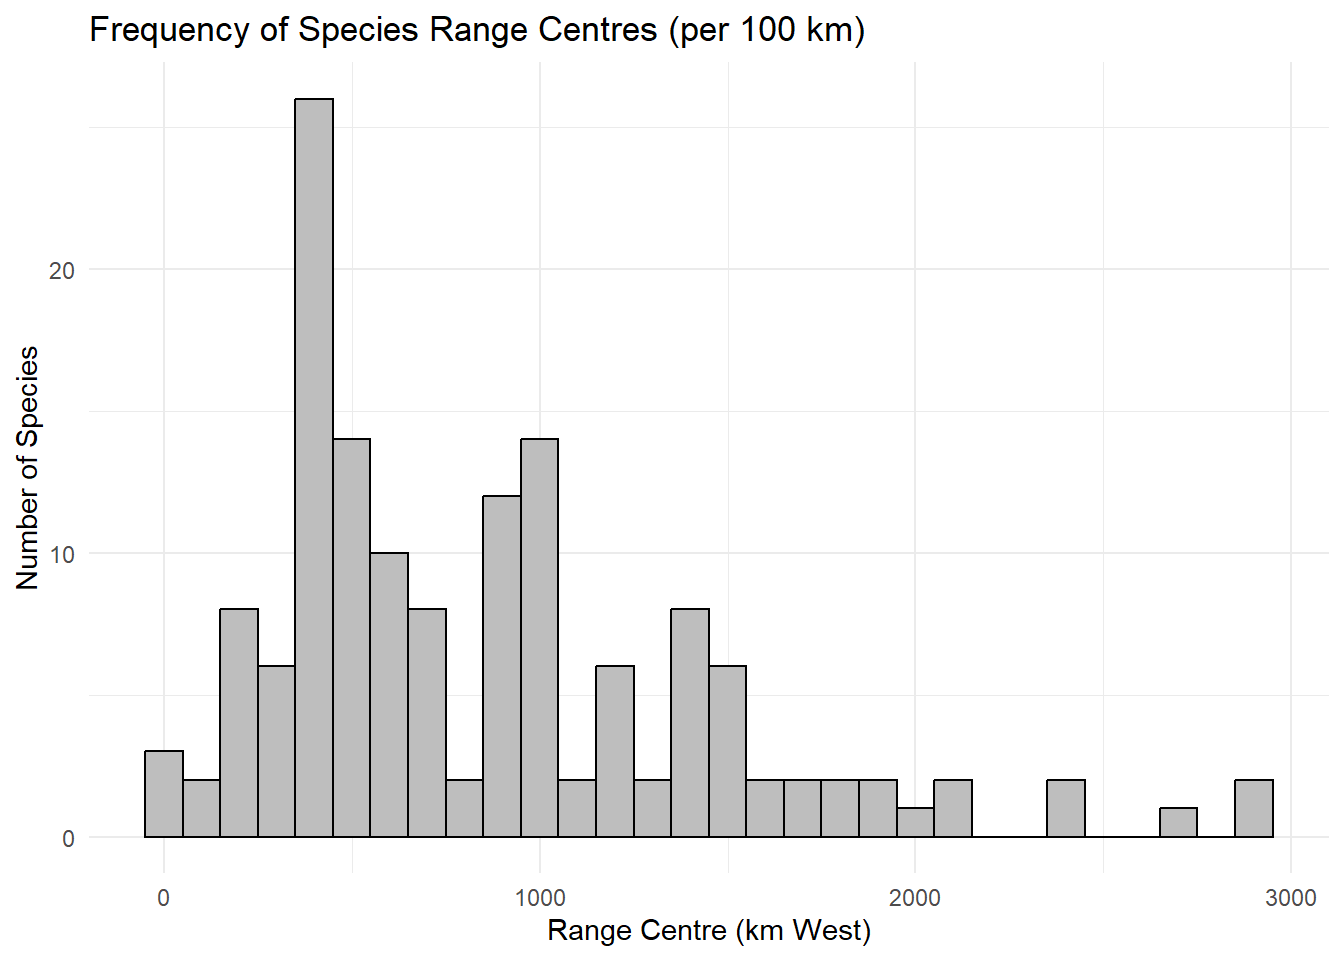
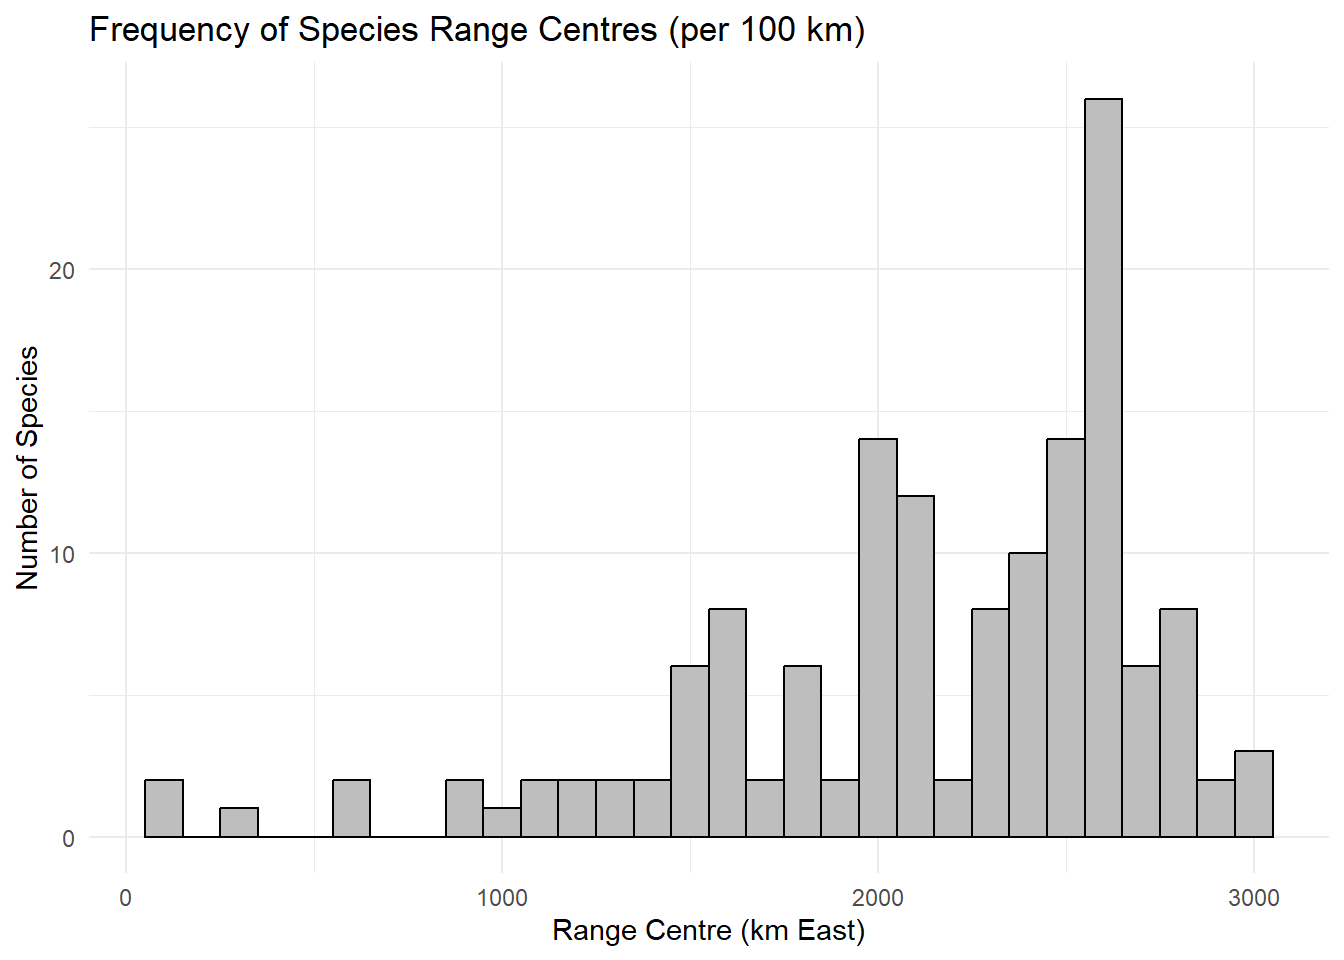
Added to the range centre section - notes still look ass.

Changed region(s): [[0.0938, 0.0938, 0.9688, 0.875], [0.3438, 0.9062, 0.6875, 1.0], [0.9062, 0.9062, 0.9688, 0.9688]]

diff --git a/code/marine-spatial-planning.html b/code/marine-spatial-planning.html
@@ -551,7 +551,7 @@ Loading required package: lattice</code></pre>
 <pre><code>[1] 66.89655</code></pre>
 </div>
 </div>
-<p>However, this is way less species than our previous methods.</p>
+<p>However, this is way less species than our previous methods. Class got ~74%.</p>
 </section>
 <section id="range-centre-method" class="level2">
 <h2 class="anchored" data-anchor-id="range-centre-method">Range Centre Method</h2>
@@ -561,8 +561,8 @@ Loading required package: lattice</code></pre>
 <div class="sourceCode cell-code" id="cb52"><pre class="sourceCode r code-with-copy"><code class="sourceCode r"><span id="cb52-1"><a href="#cb52-1" aria-hidden="true" tabindex="-1"></a><span class="co"># species abundance data</span></span>
 <span id="cb52-2"><a href="#cb52-2" aria-hidden="true" tabindex="-1"></a>spp <span class="ot">&lt;-</span> EF[, <span class="dv">4</span><span class="sc">:</span><span class="dv">148</span>]</span>
 <span id="cb52-3"><a href="#cb52-3" aria-hidden="true" tabindex="-1"></a></span>
-<span id="cb52-4"><a href="#cb52-4" aria-hidden="true" tabindex="-1"></a><span class="co"># distance from western boundary</span></span>
-<span id="cb52-5"><a href="#cb52-5" aria-hidden="true" tabindex="-1"></a>coords <span class="ot">&lt;-</span> EF<span class="sc">$</span>kmWest          </span></code><button title="Copy to Clipboard" class="code-copy-button"><i class="bi"></i></button></pre></div>
+<span id="cb52-4"><a href="#cb52-4" aria-hidden="true" tabindex="-1"></a><span class="co"># distance from eastern boundary</span></span>
+<span id="cb52-5"><a href="#cb52-5" aria-hidden="true" tabindex="-1"></a>coords <span class="ot">&lt;-</span> EF<span class="sc">$</span>kmEast          </span></code><button title="Copy to Clipboard" class="code-copy-button"><i class="bi"></i></button></pre></div>
 </div>
 <p>Now we need to calculate the range for each species. We can create a function to do this.</p>
 <div class="cell">
@@ -573,8 +573,8 @@ Loading required package: lattice</code></pre>
 <span id="cb53-5"><a href="#cb53-5" aria-hidden="true" tabindex="-1"></a>    <span class="co"># species not present anywhere</span></span>
 <span id="cb53-6"><a href="#cb53-6" aria-hidden="true" tabindex="-1"></a>    <span class="fu">return</span>(<span class="fu">c</span>(<span class="at">west_limit =</span> <span class="cn">NA</span>, <span class="at">east_limit =</span> <span class="cn">NA</span>, <span class="at">center =</span> <span class="cn">NA</span>))</span>
 <span id="cb53-7"><a href="#cb53-7" aria-hidden="true" tabindex="-1"></a>  } <span class="cf">else</span> {</span>
-<span id="cb53-8"><a href="#cb53-8" aria-hidden="true" tabindex="-1"></a>    west <span class="ot">&lt;-</span> <span class="fu">min</span>(present_coords)                    <span class="co"># furthest west point</span></span>
-<span id="cb53-9"><a href="#cb53-9" aria-hidden="true" tabindex="-1"></a>    east <span class="ot">&lt;-</span> <span class="fu">max</span>(present_coords)                    <span class="co"># furthest east point</span></span>
+<span id="cb53-8"><a href="#cb53-8" aria-hidden="true" tabindex="-1"></a>    east <span class="ot">&lt;-</span> <span class="fu">min</span>(present_coords)                    <span class="co"># furthest east point</span></span>
+<span id="cb53-9"><a href="#cb53-9" aria-hidden="true" tabindex="-1"></a>    west <span class="ot">&lt;-</span> <span class="fu">max</span>(present_coords)                    <span class="co"># furthest west point</span></span>
 <span id="cb53-10"><a href="#cb53-10" aria-hidden="true" tabindex="-1"></a>    centre <span class="ot">&lt;-</span> <span class="fu">mean</span>(<span class="fu">c</span>(west, east))                  <span class="co"># center of range</span></span>
 <span id="cb53-11"><a href="#cb53-11" aria-hidden="true" tabindex="-1"></a>    </span>
 <span id="cb53-12"><a href="#cb53-12" aria-hidden="true" tabindex="-1"></a>    <span class="fu">return</span>(<span class="fu">c</span>(<span class="at">west_limit =</span> west, <span class="at">east_limit =</span> east, <span class="at">centre =</span> centre))</span>
@@ -596,19 +596,19 @@ Loading required package: lattice</code></pre>
 <span id="cb54-8"><a href="#cb54-8" aria-hidden="true" tabindex="-1"></a><span class="fu">head</span>(spp_range_list)</span></code><button title="Copy to Clipboard" class="code-copy-button"><i class="bi"></i></button></pre></div>
 <div class="cell-output cell-output-stdout">
 <pre><code>                          Species west_limit east_limit centre
-Spot.damsel           Spot.damsel          3          3    3.0
-Estuarine.bream   Estuarine.bream        179       1034  606.5
-Bald.glassy           Bald.glassy        179       1139  659.0
-Slender.glassy     Slender.glassy          3        745  374.0
-Longspine.glassy Longspine.glassy          3        881  442.0
-Evileye.blaasop   Evileye.blaasop        267       2031 1149.0</code></pre>
+Spot.damsel           Spot.damsel       2997       2997 2997.0
+Estuarine.bream   Estuarine.bream       2821       1966 2393.5
+Bald.glassy           Bald.glassy       2821       1861 2341.0
+Slender.glassy     Slender.glassy       2997       2255 2626.0
+Longspine.glassy Longspine.glassy       2997       2119 2558.0
+Evileye.blaasop   Evileye.blaasop       2733        969 1851.0</code></pre>
 </div>
 </div>
 <p>Now we can plot a histogram with the frequency of range centres per 100 km.</p>
 <div class="cell">
 <div class="sourceCode cell-code" id="cb56"><pre class="sourceCode r code-with-copy"><code class="sourceCode r"><span id="cb56-1"><a href="#cb56-1" aria-hidden="true" tabindex="-1"></a><span class="fu">ggplot</span>(spp_range_list, <span class="fu">aes</span>(<span class="at">x =</span> centre)) <span class="sc">+</span></span>
 <span id="cb56-2"><a href="#cb56-2" aria-hidden="true" tabindex="-1"></a>  <span class="fu">geom_histogram</span>(<span class="at">binwidth =</span> <span class="dv">100</span>, <span class="at">fill =</span> <span class="st">"grey"</span>, <span class="at">color =</span> <span class="st">"black"</span>) <span class="sc">+</span></span>
-<span id="cb56-3"><a href="#cb56-3" aria-hidden="true" tabindex="-1"></a>  <span class="fu">xlab</span>(<span class="st">"Range Centre (km West)"</span>) <span class="sc">+</span></span>
+<span id="cb56-3"><a href="#cb56-3" aria-hidden="true" tabindex="-1"></a>  <span class="fu">xlab</span>(<span class="st">"Range Centre (km East)"</span>) <span class="sc">+</span></span>
 <span id="cb56-4"><a href="#cb56-4" aria-hidden="true" tabindex="-1"></a>  <span class="fu">ylab</span>(<span class="st">"Number of Species"</span>) <span class="sc">+</span></span>
 <span id="cb56-5"><a href="#cb56-5" aria-hidden="true" tabindex="-1"></a>  <span class="fu">ggtitle</span>(<span class="st">"Frequency of Species Range Centres (per 100 km)"</span>) <span class="sc">+</span></span>
 <span id="cb56-6"><a href="#cb56-6" aria-hidden="true" tabindex="-1"></a>  <span class="fu">theme_minimal</span>()</span></code><button title="Copy to Clipboard" class="code-copy-button"><i class="bi"></i></button></pre></div>
@@ -618,6 +618,111 @@ Evileye.blaasop   Evileye.blaasop        267       2031 1149.0</code></pre>
 <p><img src="marine-spatial-planning_files/figure-html/unnamed-chunk-38-1.png" class="img-fluid figure-img" width="672"></p>
 </figure>
 </div>
+</div>
+</div>
+<p>Now we need to find a way to extract the frequencies from the histogram and add that data to the <code>EF</code> data frame.</p>
+<p>We can start by scoring them.</p>
+<div class="cell">
+<div class="sourceCode cell-code" id="cb57"><pre class="sourceCode r code-with-copy"><code class="sourceCode r"><span id="cb57-1"><a href="#cb57-1" aria-hidden="true" tabindex="-1"></a>EF<span class="sc">$</span>block <span class="ot">&lt;-</span> <span class="fu">ceiling</span>(EF<span class="sc">$</span>kmEast<span class="sc">/</span><span class="dv">100</span>)</span>
+<span id="cb57-2"><a href="#cb57-2" aria-hidden="true" tabindex="-1"></a></span>
+<span id="cb57-3"><a href="#cb57-3" aria-hidden="true" tabindex="-1"></a></span>
+<span id="cb57-4"><a href="#cb57-4" aria-hidden="true" tabindex="-1"></a>EF<span class="sc">$</span>RC_list <span class="ot">&lt;-</span> <span class="dv">1</span></span>
+<span id="cb57-5"><a href="#cb57-5" aria-hidden="true" tabindex="-1"></a></span>
+<span id="cb57-6"><a href="#cb57-6" aria-hidden="true" tabindex="-1"></a><span class="co"># order by kmEast</span></span>
+<span id="cb57-7"><a href="#cb57-7" aria-hidden="true" tabindex="-1"></a>EF <span class="ot">&lt;-</span> EF[<span class="fu">order</span>(EF<span class="sc">$</span>kmEast),]</span></code><button title="Copy to Clipboard" class="code-copy-button"><i class="bi"></i></button></pre></div>
+</div>
+<p>Let’s check the top 20 estuaries.</p>
+<div class="cell">
+<div class="sourceCode cell-code" id="cb58"><pre class="sourceCode r code-with-copy"><code class="sourceCode r"><span id="cb58-1"><a href="#cb58-1" aria-hidden="true" tabindex="-1"></a>interval_table <span class="ot">&lt;-</span> <span class="fu">table</span>(<span class="fu">cut</span>(spp_range_list<span class="sc">$</span>centre,<span class="fu">seq</span>(<span class="dv">0</span>,<span class="dv">3000</span>,<span class="dv">100</span>)))</span>
+<span id="cb58-2"><a href="#cb58-2" aria-hidden="true" tabindex="-1"></a><span class="fu">print</span>(<span class="fu">order</span>(interval_table, <span class="at">decreasing =</span> <span class="cn">TRUE</span>))</span></code><button title="Copy to Clipboard" class="code-copy-button"><i class="bi"></i></button></pre></div>
+<div class="cell-output cell-output-stdout">
+<pre><code> [1] 26 25 27 20 21 16 24 22 29 18 15 17 19 23 28 30  1  7 10 12 13 14  3  9 11
+[26]  2  4  5  6  8</code></pre>
+</div>
+</div>
+<p>Here we can see that the lowest frequencies are 2, 3, 4, 5, 6, 8, 9, 11, 13 and 14</p>
+<p>Let’s remove the estuaries we don’t want.</p>
+<div class="cell">
+<div class="sourceCode cell-code" id="cb60"><pre class="sourceCode r code-with-copy"><code class="sourceCode r"><span id="cb60-1"><a href="#cb60-1" aria-hidden="true" tabindex="-1"></a><span class="co"># define blocks to score as 0</span></span>
+<span id="cb60-2"><a href="#cb60-2" aria-hidden="true" tabindex="-1"></a>zero_blocks <span class="ot">&lt;-</span> <span class="fu">c</span>(<span class="dv">13</span>, <span class="dv">14</span>, <span class="dv">3</span>, <span class="dv">9</span>, <span class="dv">11</span>, <span class="dv">2</span>, <span class="dv">4</span>, <span class="dv">5</span>, <span class="dv">6</span>, <span class="dv">8</span>)</span>
+<span id="cb60-3"><a href="#cb60-3" aria-hidden="true" tabindex="-1"></a></span>
+<span id="cb60-4"><a href="#cb60-4" aria-hidden="true" tabindex="-1"></a><span class="co"># score the defined blocks as 0</span></span>
+<span id="cb60-5"><a href="#cb60-5" aria-hidden="true" tabindex="-1"></a><span class="cf">for</span> (i <span class="cf">in</span> <span class="dv">1</span><span class="sc">:</span><span class="fu">nrow</span>(EF)) {</span>
+<span id="cb60-6"><a href="#cb60-6" aria-hidden="true" tabindex="-1"></a>  <span class="cf">if</span> (EF<span class="sc">$</span>block[i] <span class="sc">%in%</span> zero_blocks) {</span>
+<span id="cb60-7"><a href="#cb60-7" aria-hidden="true" tabindex="-1"></a>    EF<span class="sc">$</span>RC_list[i] <span class="ot">&lt;-</span> <span class="dv">0</span> </span>
+<span id="cb60-8"><a href="#cb60-8" aria-hidden="true" tabindex="-1"></a>  }</span>
+<span id="cb60-9"><a href="#cb60-9" aria-hidden="true" tabindex="-1"></a>}</span></code><button title="Copy to Clipboard" class="code-copy-button"><i class="bi"></i></button></pre></div>
+</div>
+<p>Now subset the data and remove the estuaries with <code>RC_list</code> = 0.</p>
+<div class="cell">
+<div class="sourceCode cell-code" id="cb61"><pre class="sourceCode r code-with-copy"><code class="sourceCode r"><span id="cb61-1"><a href="#cb61-1" aria-hidden="true" tabindex="-1"></a>EF <span class="ot">&lt;-</span> <span class="fu">subset</span>(EF, RC_list <span class="sc">&gt;</span> <span class="dv">0</span>)</span></code><button title="Copy to Clipboard" class="code-copy-button"><i class="bi"></i></button></pre></div>
+</div>
+<p>Order by block and alpha.</p>
+<div class="cell">
+<div class="sourceCode cell-code" id="cb62"><pre class="sourceCode r code-with-copy"><code class="sourceCode r"><span id="cb62-1"><a href="#cb62-1" aria-hidden="true" tabindex="-1"></a><span class="co"># order by block and alpha</span></span>
+<span id="cb62-2"><a href="#cb62-2" aria-hidden="true" tabindex="-1"></a>EF <span class="ot">&lt;-</span> EF[<span class="fu">order</span>(EF<span class="sc">$</span>block, <span class="sc">-</span>EF<span class="sc">$</span>alpha),]</span></code><button title="Copy to Clipboard" class="code-copy-button"><i class="bi"></i></button></pre></div>
+</div>
+<p>Score the top 20 alpha values.</p>
+<div class="cell">
+<div class="sourceCode cell-code" id="cb63"><pre class="sourceCode r code-with-copy"><code class="sourceCode r"><span id="cb63-1"><a href="#cb63-1" aria-hidden="true" tabindex="-1"></a>max <span class="ot">&lt;-</span> EF<span class="sc">$</span>alpha[<span class="dv">1</span>]  <span class="co"># Initialize max with the first alpha value</span></span>
+<span id="cb63-2"><a href="#cb63-2" aria-hidden="true" tabindex="-1"></a>EF<span class="sc">$</span>RC_list <span class="ot">&lt;-</span> <span class="dv">0</span>  <span class="co"># Assuming the first is always a "1"</span></span>
+<span id="cb63-3"><a href="#cb63-3" aria-hidden="true" tabindex="-1"></a>EF<span class="sc">$</span>RC_list[<span class="dv">1</span>] <span class="ot">&lt;-</span> <span class="dv">1</span></span>
+<span id="cb63-4"><a href="#cb63-4" aria-hidden="true" tabindex="-1"></a></span>
+<span id="cb63-5"><a href="#cb63-5" aria-hidden="true" tabindex="-1"></a><span class="cf">for</span> (j <span class="cf">in</span> <span class="dv">2</span><span class="sc">:</span><span class="fu">nrow</span>(EF)) {</span>
+<span id="cb63-6"><a href="#cb63-6" aria-hidden="true" tabindex="-1"></a>  <span class="cf">if</span> (EF<span class="sc">$</span>block[j] <span class="sc">&gt;</span> EF<span class="sc">$</span>block[j<span class="dv">-1</span>]) {</span>
+<span id="cb63-7"><a href="#cb63-7" aria-hidden="true" tabindex="-1"></a>    max <span class="ot">&lt;-</span> <span class="dv">0</span></span>
+<span id="cb63-8"><a href="#cb63-8" aria-hidden="true" tabindex="-1"></a>    <span class="cf">if</span> (EF<span class="sc">$</span>alpha[j] <span class="sc">&gt;</span> max) {</span>
+<span id="cb63-9"><a href="#cb63-9" aria-hidden="true" tabindex="-1"></a>     EF<span class="sc">$</span>RC_list[j] <span class="ot">&lt;-</span> <span class="dv">1</span> </span>
+<span id="cb63-10"><a href="#cb63-10" aria-hidden="true" tabindex="-1"></a>    max <span class="ot">&lt;-</span> EF<span class="sc">$</span>alpha[j]</span>
+<span id="cb63-11"><a href="#cb63-11" aria-hidden="true" tabindex="-1"></a>    }</span>
+<span id="cb63-12"><a href="#cb63-12" aria-hidden="true" tabindex="-1"></a>  } <span class="cf">else</span> <span class="cf">if</span> (EF<span class="sc">$</span>block[j] <span class="sc">==</span> EF<span class="sc">$</span>block[j<span class="dv">-1</span>]) {</span>
+<span id="cb63-13"><a href="#cb63-13" aria-hidden="true" tabindex="-1"></a>    <span class="cf">if</span> (EF<span class="sc">$</span>alpha[j] <span class="sc">&gt;</span> max) {</span>
+<span id="cb63-14"><a href="#cb63-14" aria-hidden="true" tabindex="-1"></a>      EF<span class="sc">$</span>RC_list[j] <span class="ot">&lt;-</span> <span class="dv">1</span></span>
+<span id="cb63-15"><a href="#cb63-15" aria-hidden="true" tabindex="-1"></a>      EF<span class="sc">$</span>RC_list[j<span class="dv">-1</span>] <span class="ot">&lt;-</span> <span class="dv">0</span></span>
+<span id="cb63-16"><a href="#cb63-16" aria-hidden="true" tabindex="-1"></a>      max <span class="ot">&lt;-</span> EF<span class="sc">$</span>alpha[j]</span>
+<span id="cb63-17"><a href="#cb63-17" aria-hidden="true" tabindex="-1"></a>    }</span>
+<span id="cb63-18"><a href="#cb63-18" aria-hidden="true" tabindex="-1"></a>  }</span>
+<span id="cb63-19"><a href="#cb63-19" aria-hidden="true" tabindex="-1"></a>}</span>
+<span id="cb63-20"><a href="#cb63-20" aria-hidden="true" tabindex="-1"></a></span>
+<span id="cb63-21"><a href="#cb63-21" aria-hidden="true" tabindex="-1"></a><span class="fu">sum</span>(EF<span class="sc">$</span>RC_list)</span></code><button title="Copy to Clipboard" class="code-copy-button"><i class="bi"></i></button></pre></div>
+<div class="cell-output cell-output-stdout">
+<pre><code>[1] 20</code></pre>
+</div>
+</div>
+<p>Plot the estuaries.</p>
+<div class="cell">
+<div class="sourceCode cell-code" id="cb65"><pre class="sourceCode r code-with-copy"><code class="sourceCode r"><span id="cb65-1"><a href="#cb65-1" aria-hidden="true" tabindex="-1"></a><span class="fu">ggplot</span>(EF, <span class="fu">aes</span>(<span class="at">x =</span> kmEast, <span class="at">y =</span> alpha, <span class="at">color =</span> <span class="fu">factor</span>(RC_list))) <span class="sc">+</span></span>
+<span id="cb65-2"><a href="#cb65-2" aria-hidden="true" tabindex="-1"></a>  <span class="fu">geom_point</span>(<span class="at">size =</span> <span class="dv">2</span>, <span class="at">alpha =</span> <span class="fl">0.7</span>) <span class="sc">+</span></span>
+<span id="cb65-3"><a href="#cb65-3" aria-hidden="true" tabindex="-1"></a>  <span class="fu">scale_color_manual</span>(<span class="at">values =</span> <span class="fu">c</span>(<span class="st">"0"</span> <span class="ot">=</span> <span class="st">"black"</span>, <span class="st">"1"</span> <span class="ot">=</span> <span class="st">"red"</span>),</span>
+<span id="cb65-4"><a href="#cb65-4" aria-hidden="true" tabindex="-1"></a>                     <span class="at">labels =</span> <span class="fu">c</span>(<span class="st">"Other"</span>, <span class="st">"Top 20"</span>),</span>
+<span id="cb65-5"><a href="#cb65-5" aria-hidden="true" tabindex="-1"></a>                     <span class="at">name =</span> <span class="st">"Alpha Rank"</span>) <span class="sc">+</span></span>
+<span id="cb65-6"><a href="#cb65-6" aria-hidden="true" tabindex="-1"></a>  <span class="fu">labs</span>(<span class="at">title =</span> <span class="st">"Scatterplot of Alpha Diversity vs. km East"</span>,</span>
+<span id="cb65-7"><a href="#cb65-7" aria-hidden="true" tabindex="-1"></a>       <span class="at">x =</span> <span class="st">"Distance from Western Boundary (km East)"</span>,</span>
+<span id="cb65-8"><a href="#cb65-8" aria-hidden="true" tabindex="-1"></a>       <span class="at">y =</span> <span class="st">"Alpha Diversity"</span>) <span class="sc">+</span></span>
+<span id="cb65-9"><a href="#cb65-9" aria-hidden="true" tabindex="-1"></a>  <span class="fu">theme_minimal</span>()</span></code><button title="Copy to Clipboard" class="code-copy-button"><i class="bi"></i></button></pre></div>
+<div class="cell-output-display">
+<div>
+<figure class="figure">
+<p><img src="marine-spatial-planning_files/figure-html/unnamed-chunk-45-1.png" class="img-fluid figure-img" width="672"></p>
+</figure>
+</div>
+</div>
+</div>
+<p>Number of species.</p>
+<div class="cell">
+<div class="sourceCode cell-code" id="cb66"><pre class="sourceCode r code-with-copy"><code class="sourceCode r"><span id="cb66-1"><a href="#cb66-1" aria-hidden="true" tabindex="-1"></a>RC_spp <span class="ot">&lt;-</span> <span class="fu">specnumber</span>(EF[,<span class="dv">4</span><span class="sc">:</span><span class="dv">148</span>], EF<span class="sc">$</span>RC_list)</span>
+<span id="cb66-2"><a href="#cb66-2" aria-hidden="true" tabindex="-1"></a>RC_spp</span></code><button title="Copy to Clipboard" class="code-copy-button"><i class="bi"></i></button></pre></div>
+<div class="cell-output cell-output-stdout">
+<pre><code>  0   1 
+117 121 </code></pre>
+</div>
+</div>
+<p>Percentage</p>
+<div class="cell">
+<div class="sourceCode cell-code" id="cb68"><pre class="sourceCode r code-with-copy"><code class="sourceCode r"><span id="cb68-1"><a href="#cb68-1" aria-hidden="true" tabindex="-1"></a>RC_percentage <span class="ot">&lt;-</span> (<span class="dv">121</span><span class="sc">/</span><span class="dv">145</span>) <span class="sc">*</span> <span class="dv">100</span></span>
+<span id="cb68-2"><a href="#cb68-2" aria-hidden="true" tabindex="-1"></a>RC_percentage</span></code><button title="Copy to Clipboard" class="code-copy-button"><i class="bi"></i></button></pre></div>
+<div class="cell-output cell-output-stdout">
+<pre><code>[1] 83.44828</code></pre>
 </div>
 </div>
 </section>
